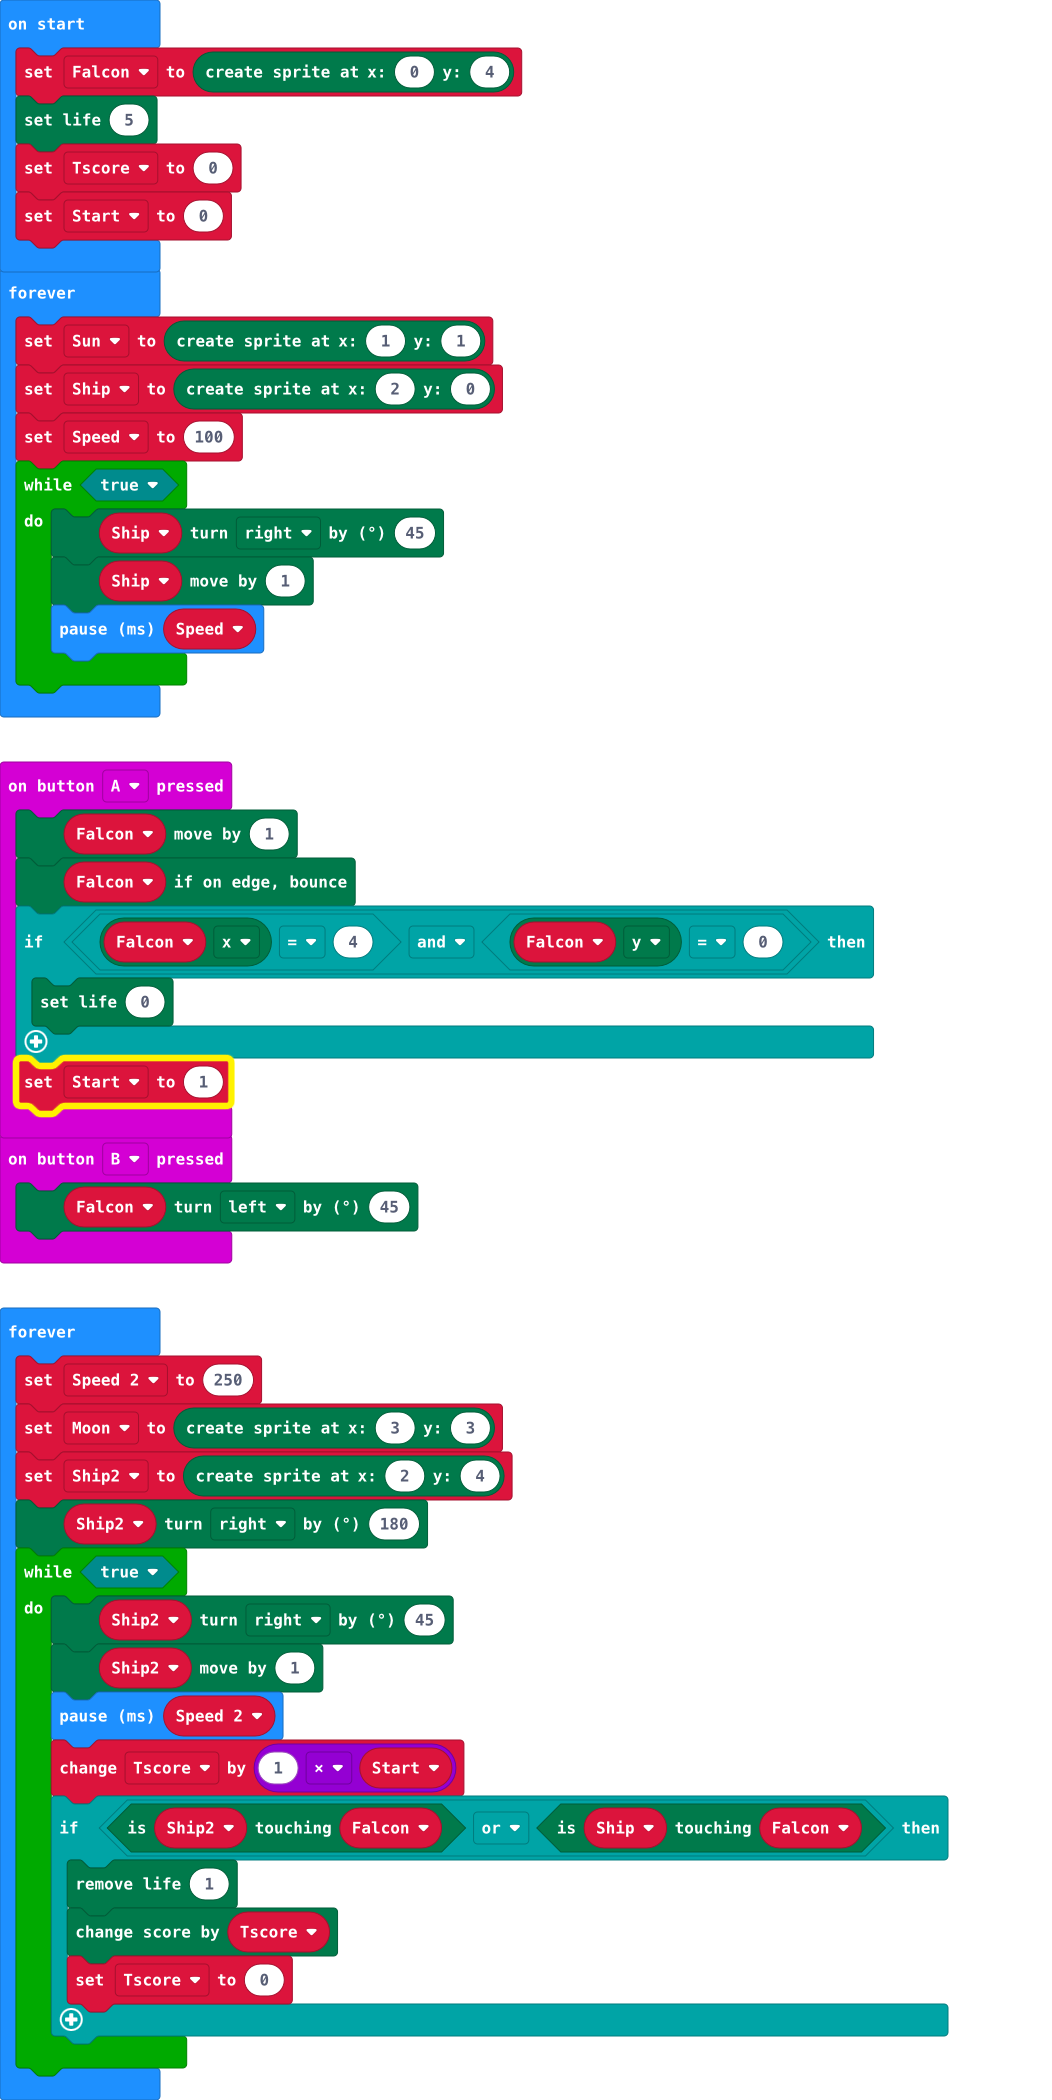
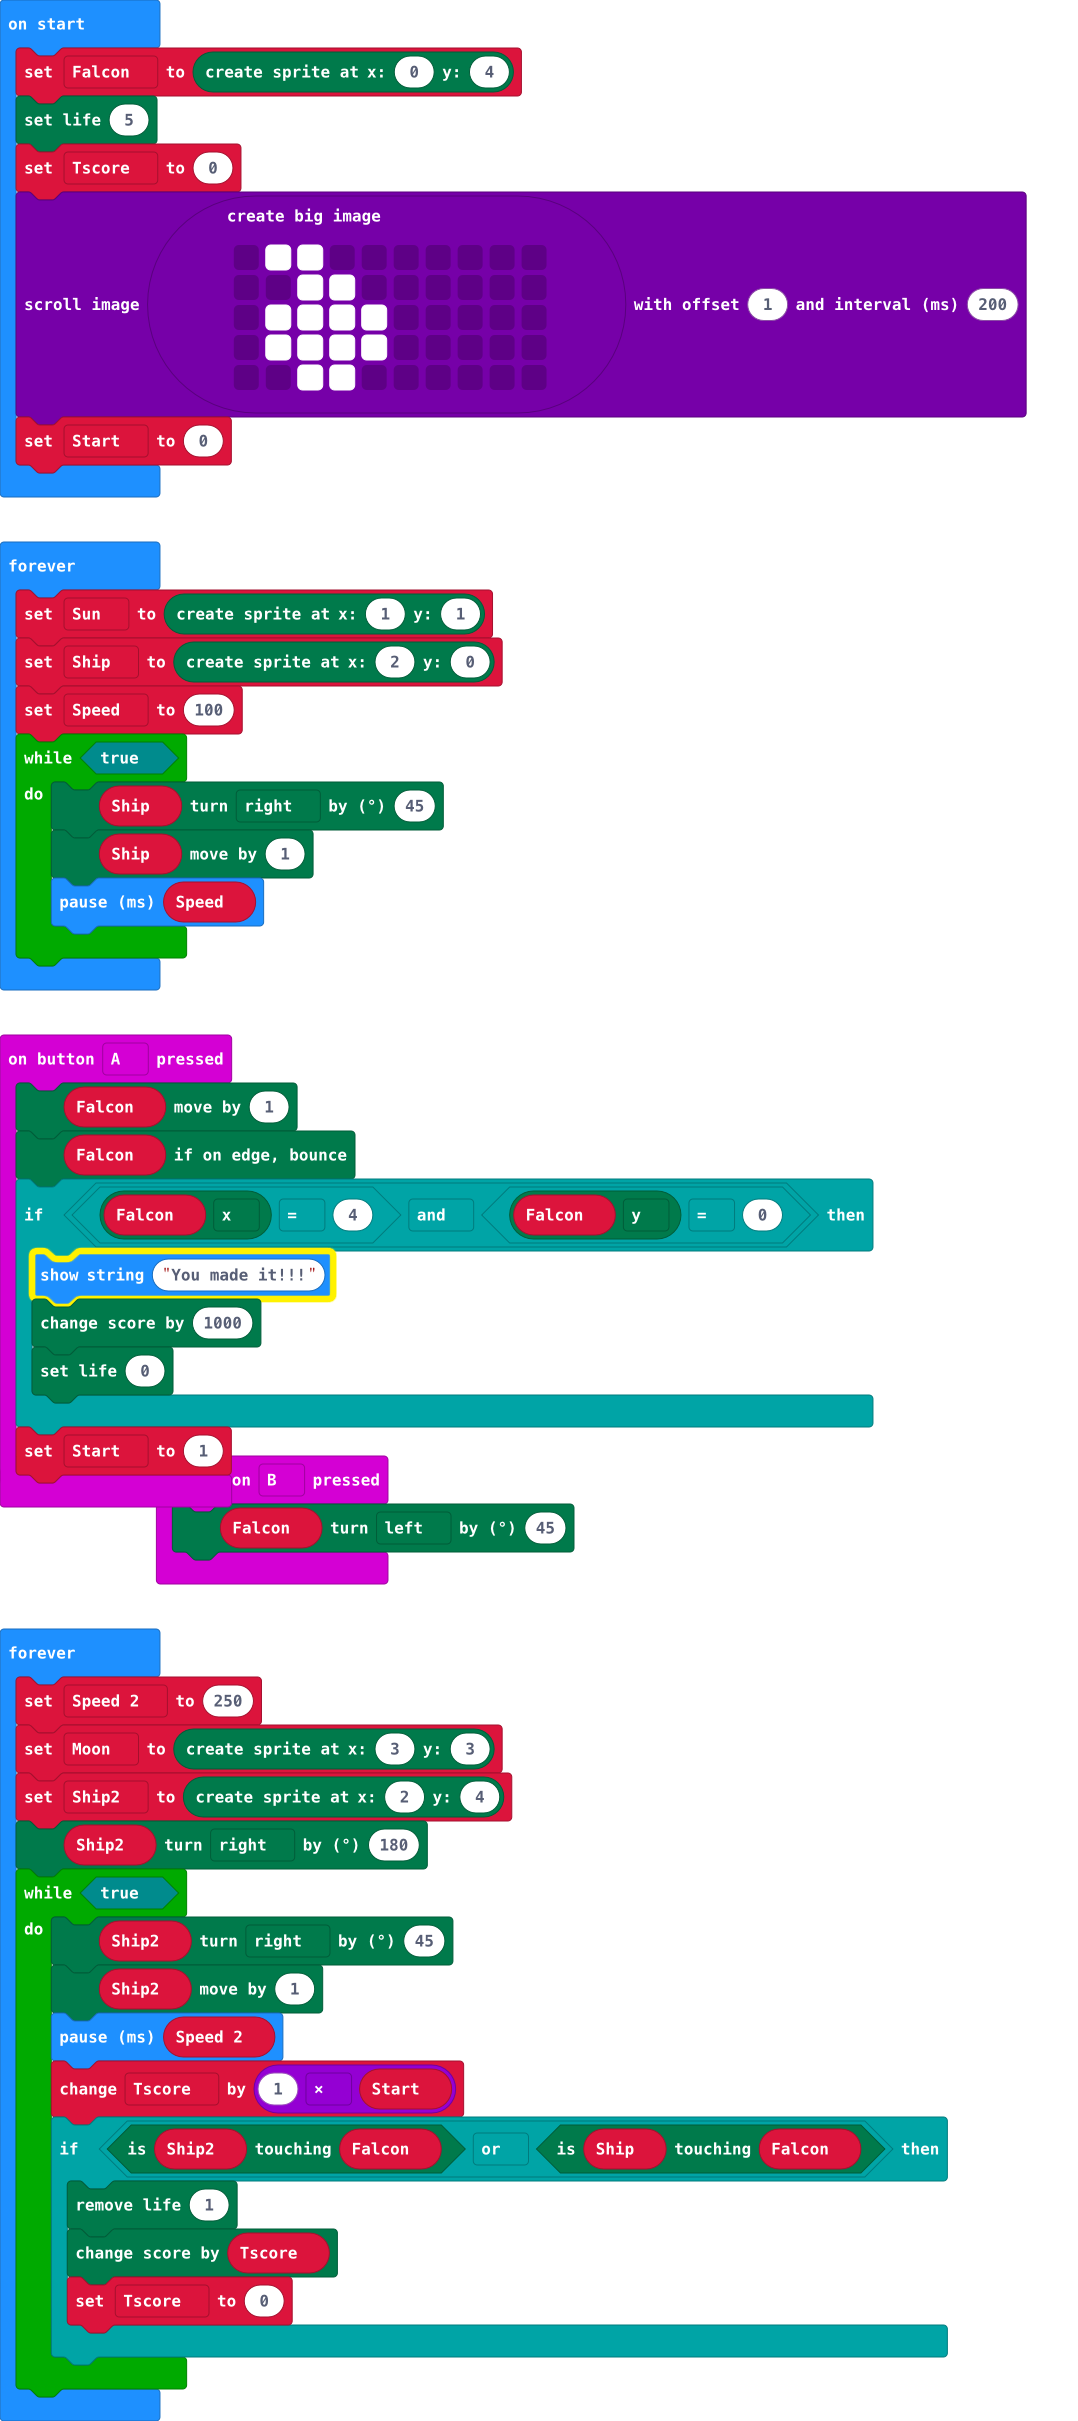
Update main.blocks, main.ts

diff --git a/main.ts b/main.ts
@@ -2,6 +2,8 @@ input.onButtonPressed(Button.A, function () {
     Falcon.move(1)
     Falcon.ifOnEdgeBounce()
     if (Falcon.get(LedSpriteProperty.X) == 4 && Falcon.get(LedSpriteProperty.Y) == 0) {
+        basic.showString("You made it!!!")
+        game.addScore(1000)
         game.setLife(0)
     }
     Start = 1
@@ -20,6 +22,13 @@ let Falcon: game.LedSprite = null
 Falcon = game.createSprite(0, 4)
 game.setLife(5)
 let Tscore = 0
+images.createBigImage(`
+    . # # . . . . . . .
+    . . # # . . . . . .
+    . # # # # . . . . .
+    . # # # # . . . . .
+    . . # # . . . . . .
+    `).scrollImage(1, 200)
 Start = 0
 basic.forever(function () {
     Sun = game.createSprite(1, 1)
